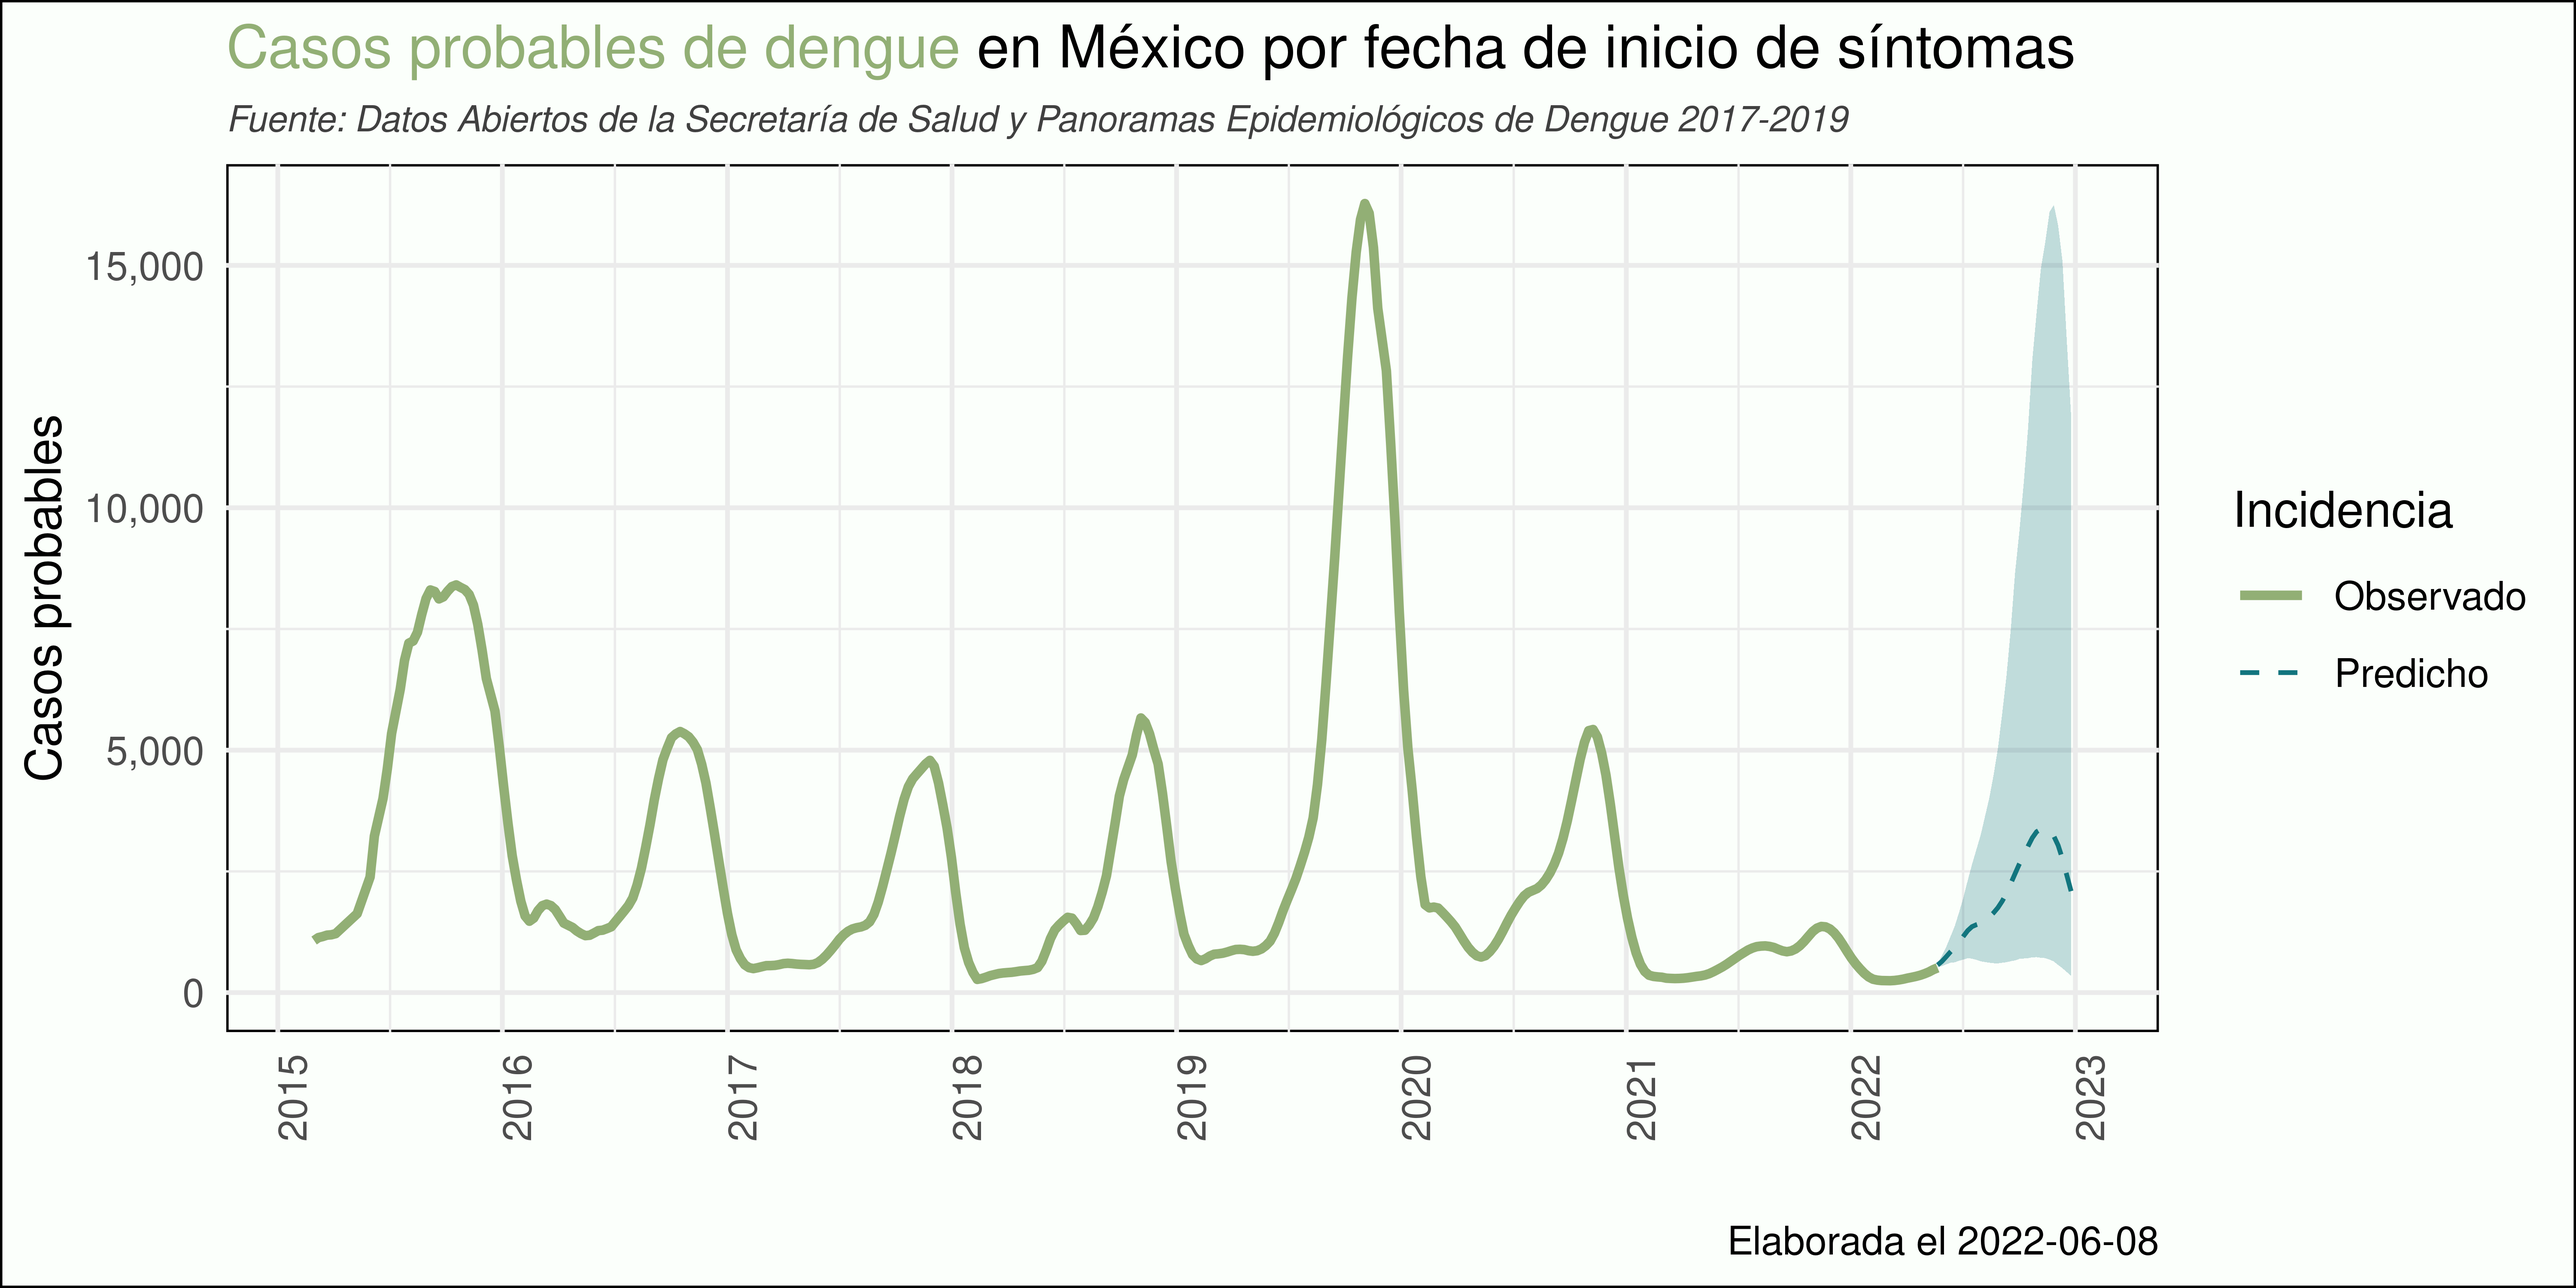
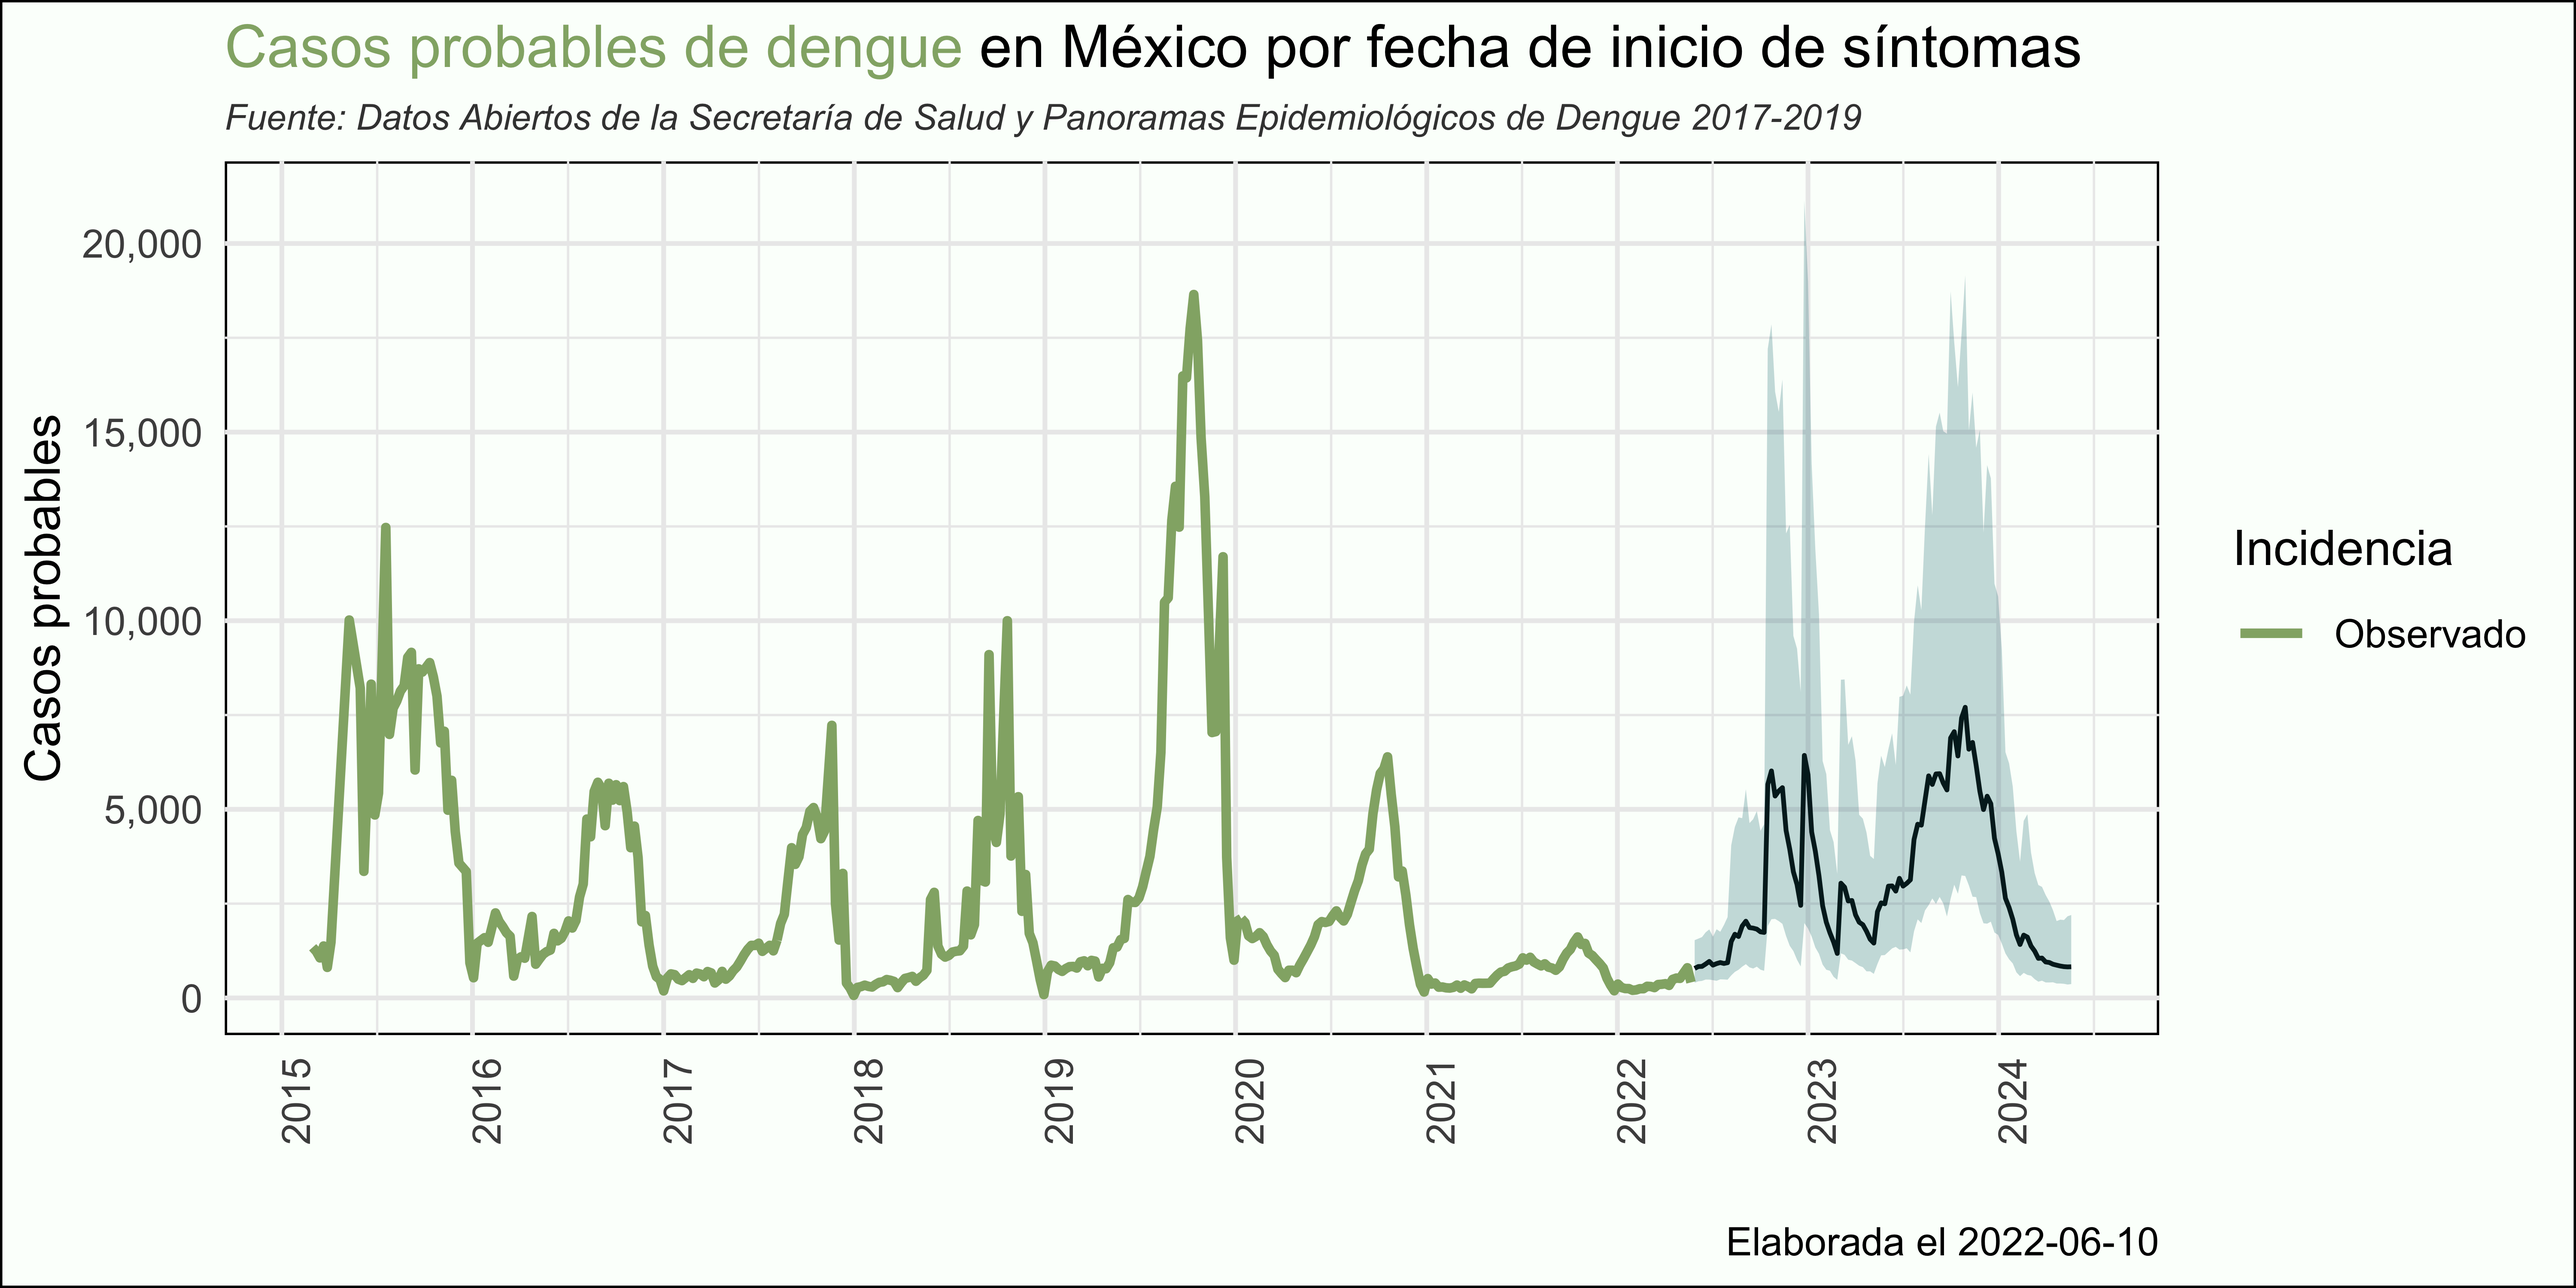
NIHST MODEL

diff --git a/model_darts.py b/model_darts.py
@@ -1,37 +1,35 @@
 import torch
 import numpy as np
 import pandas as pd
-
+import darts.utils.likelihood_models as Likelihood
 from darts import TimeSeries
-from darts.utils.losses import SmapeLoss
+import darts.utils.losses as Loss
 from darts.models import TCNModel, RNNModel, ExponentialSmoothing, BlockRNNModel, NBEATSModel, TFTModel, NHiTS
 from darts.dataprocessing.transformers import Scaler
 from darts.utils.timeseries_generation import datetime_attribute_timeseries
 import warnings
-from darts.utils.likelihood_models import GaussianLikelihood
-
+from datetime import timedelta
 warnings.filterwarnings("ignore")
 import logging
-
+import optuna as tuna
 logging.disable(logging.CRITICAL)
 
 
 #We read the data
 data           = pd.read_csv("datos-limpios/dengue_2015_2022_mx.csv")
-data           = data.rename(columns = {"fecha": "date", "nraw": "value"})
+data           = data.rename(columns = {"fecha": "date", "logn": "value"})
 data['date']   = pd.to_datetime(data['date'])
-
 
 # Create a TimeSeries, specifying the time and value columns
 series = TimeSeries.from_dataframe(data[["date","value"]], 'date', 'value')
 
 weeks_to_predict = 52*2
+training_cutoff = data.date.max() - timedelta(weeks=weeks_to_predict)
 
 # Set aside the last two year as a validation series
-training_cutoff = pd.Timestamp("2020/01/01")
 train, val = series.split_after(training_cutoff)
-train.plot()
-val.plot()
+#train.plot()
+#val.plot()
 
 #COVARIATES
 covariates = datetime_attribute_timeseries(series, attribute="year", one_hot=False)
@@ -56,7 +54,6 @@ covariates_transformed = scaler_covs.transform(covariates)
 np.random.seed(230098)
 torch.manual_seed(42095703)
 
-
 deeptcn = NHiTS(
     input_chunk_length=100,
     output_chunk_length=10,
@@ -67,13 +64,26 @@ deeptcn = NHiTS(
     layer_widths=512,
     batch_size=16,
     n_epochs=20,
-    #likelihood = GaussianLikelihood(),
-    add_encoders={'cyclic': {'future': ['month','year']}},
+    likelihood = Likelihood.GammaLikelihood(),
+    loss_fn = Loss.SmapeLoss(),
+    #optimizer_kwargs = {'lr': 1e-3},
+    add_encoders={'cyclic': {'future': ['month','year','week']}},
 )
 
 deeptcn.fit(train, verbose=True)
 
-pred = deeptcn.predict(weeks_to_predict, num_samples=1000)
-val.slice_intersect(pred).plot(label="target")
-pred.plot(label="prediction")
+#Prsent predict
+#pred = deeptcn.predict(weeks_to_predict, num_samples=100)
+#val.slice_intersect(pred).plot(label="target")
+#pred.plot(label="prediction")
 
+#Future predict
+deeptcn.fit(series, verbose=True)
+pred_2     = deeptcn.predict(weeks_to_predict, num_samples=1000)
+
+prediction = pred_2.quantiles_df([0.05, 0.5, 0.95])
+prediction[["lower_ci", "median", "upper_ci"]] = np.exp(prediction[["value_0.05", "value_0.5", "value_0.95"]])
+
+
+pred_2.plot()
+prediction.to_csv("predicciones_DARTS_experimento.csv")
